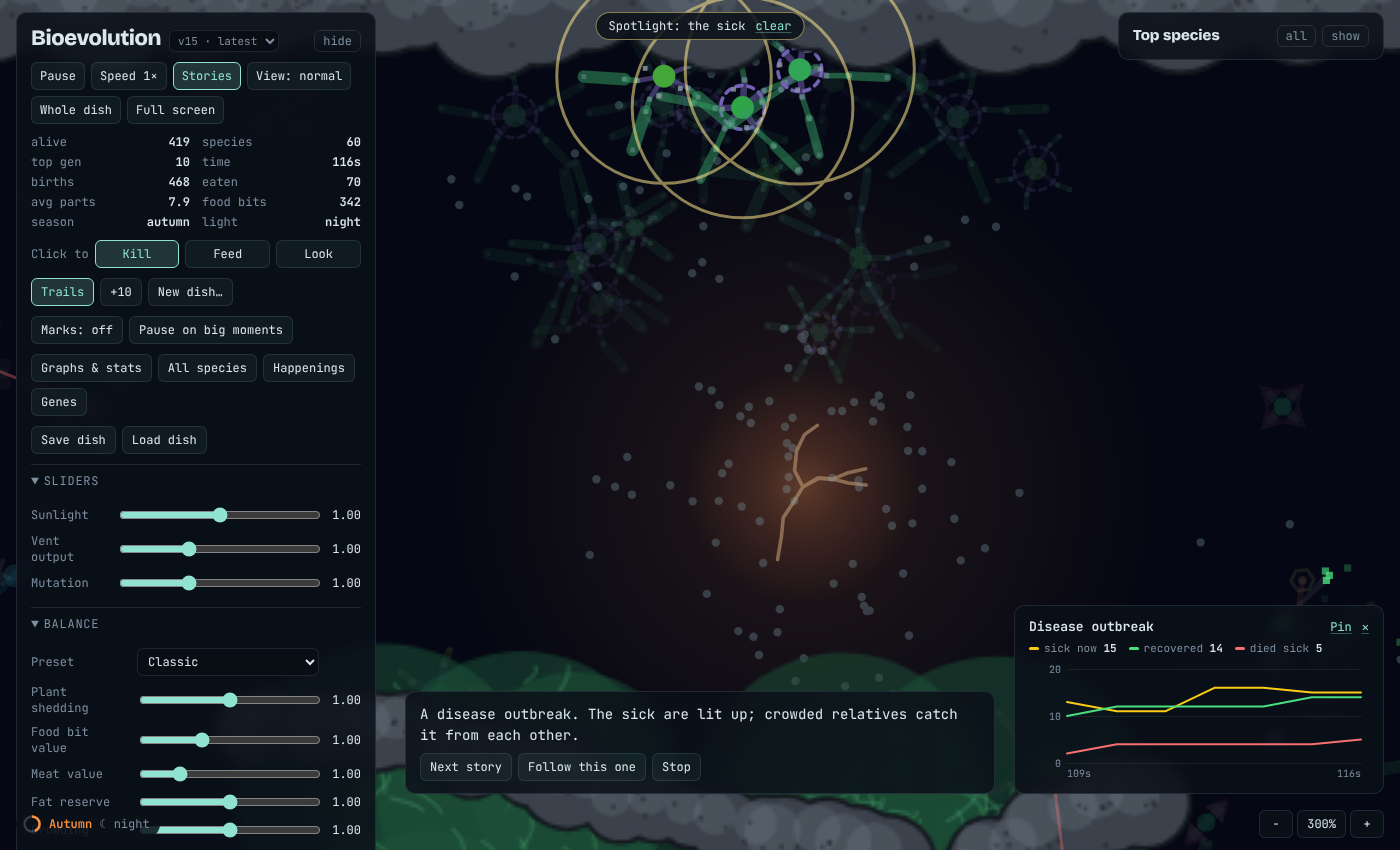
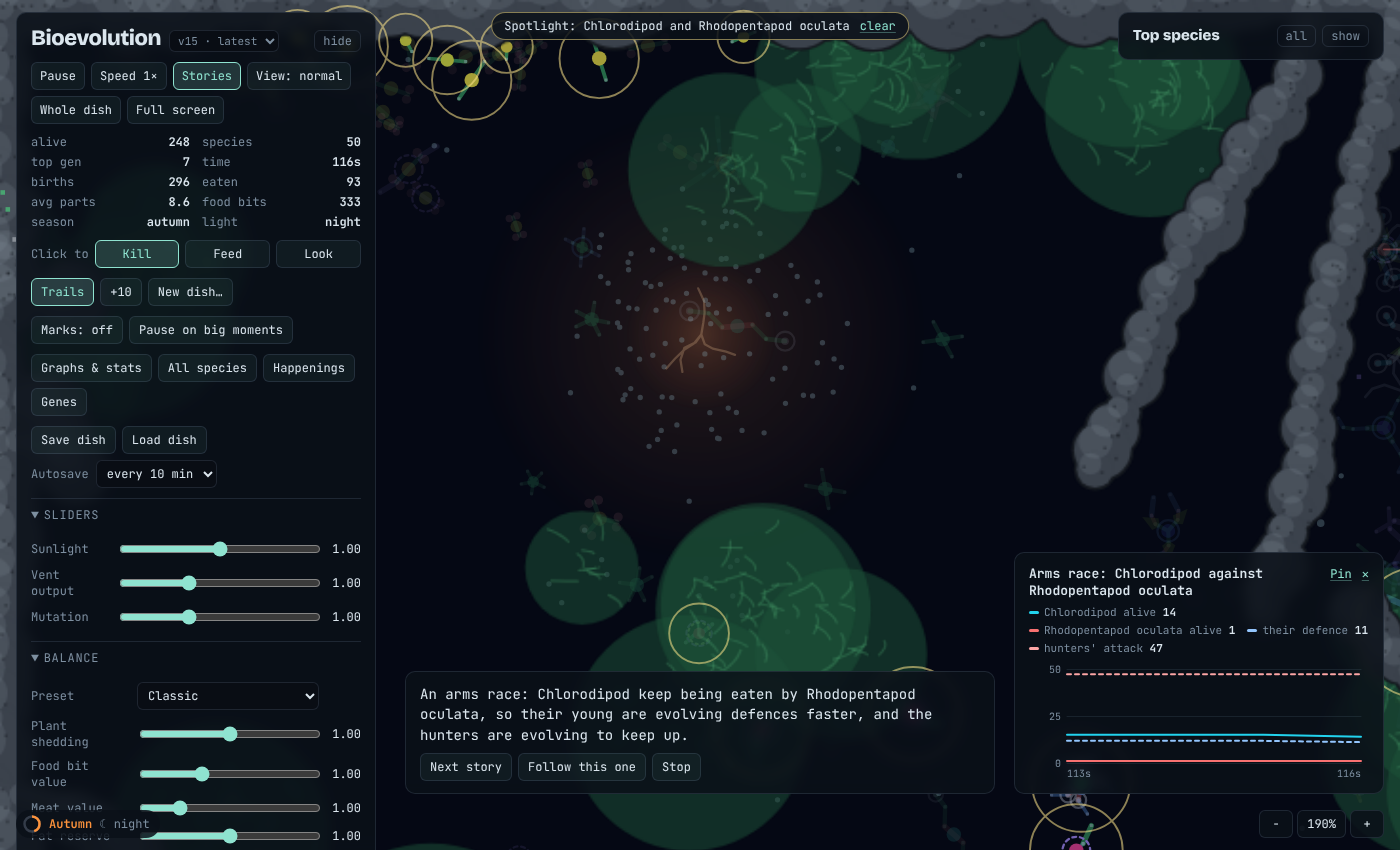
Autosave menu: off, 5, 10, 30 or 60 minutes
Claude-Session: https://claude.ai/code/session_01HyD39EuGwtjVgBknaBB2iA

diff --git a/index.html b/index.html
@@ -369,6 +369,7 @@ select { font: inherit; color: var(--ink); background: var(--panel-solid); borde
     <button class="ctl" id="bSave">Save dish</button>
     <button class="ctl" id="bLoad">Load dish</button>
     <input type="file" id="fLoad" accept=".json,application/json" hidden>
+    <label class="k" for="autoEvery" title="Each autosave pauses the dish for a moment, longer on a dish with a long history">Autosave <select id="autoEvery"><option value="0">off</option><option value="5">every 5 min</option><option value="10" selected>every 10 min</option><option value="30">every 30 min</option><option value="60">every hour</option></select></label>
   </div>
 
   <details class="fold" id="fSliders" open>
@@ -5648,10 +5649,18 @@ function restoreFull(d) {
   if (typeof st.speed === 'number') { speed = st.speed; $('bSpeed').textContent = `Speed ${speed === 0.25 ? '¼' : speed === 0.5 ? '½' : speed}×`; }
 }
 
-// Autosave: every ten minutes and when the page is closed or hidden, the whole dish goes into the
+// Autosave: every ten minutes by default and when the page is closed or hidden, the whole dish goes into the
 // browser's own storage (IndexedDB) on this computer. The last three are kept in case one is bad.
-const AUTO_EVERY = 600000, AUTO_KEEP = 3; // each save pauses the dish briefly, so not too often
-let autoOn = true, autoLast = 0, autoBusy = false;
+// How often is up to you (the Autosave menu, remembered on this computer); off also stops saving on close.
+const AUTO_KEEP = 3;
+let AUTO_EVERY = 600000, autoOn = true, autoLast = 0, autoBusy = false;
+function setAutoEvery(min) {
+  autoOn = min > 0; AUTO_EVERY = Math.max(1, min) * 60000;
+  $('autoEvery').value = String(min);
+  try { localStorage.setItem('bio-autosave', String(min)); } catch (_) { /* storage may be blocked */ }
+}
+try { const v = localStorage.getItem('bio-autosave'); if (v !== null && ['0', '5', '10', '30', '60'].includes(v)) setAutoEvery(+v); } catch (_) { /* ignore */ }
+$('autoEvery').onchange = e => { setAutoEvery(+e.target.value); autoLast = Date.now(); toast(autoOn ? `Autosave every ${e.target.selectedOptions[0].textContent.replace('every ', '')}` : 'Autosave off'); };
 function idb() {
   return new Promise((res, rej) => {
     if (!window.indexedDB) return rej(new Error('no storage'));

diff --git a/src/app.html b/src/app.html
@@ -362,6 +362,7 @@ select { font: inherit; color: var(--ink); background: var(--panel-solid); borde
     <button class="ctl" id="bSave">Save dish</button>
     <button class="ctl" id="bLoad">Load dish</button>
     <input type="file" id="fLoad" accept=".json,application/json" hidden>
+    <label class="k" for="autoEvery" title="Each autosave pauses the dish for a moment, longer on a dish with a long history">Autosave <select id="autoEvery"><option value="0">off</option><option value="5">every 5 min</option><option value="10" selected>every 10 min</option><option value="30">every 30 min</option><option value="60">every hour</option></select></label>
   </div>
 
   <details class="fold" id="fSliders" open>
@@ -5641,10 +5642,18 @@ function restoreFull(d) {
   if (typeof st.speed === 'number') { speed = st.speed; $('bSpeed').textContent = `Speed ${speed === 0.25 ? '¼' : speed === 0.5 ? '½' : speed}×`; }
 }
 
-// Autosave: every ten minutes and when the page is closed or hidden, the whole dish goes into the
+// Autosave: every ten minutes by default and when the page is closed or hidden, the whole dish goes into the
 // browser's own storage (IndexedDB) on this computer. The last three are kept in case one is bad.
-const AUTO_EVERY = 600000, AUTO_KEEP = 3; // each save pauses the dish briefly, so not too often
-let autoOn = true, autoLast = 0, autoBusy = false;
+// How often is up to you (the Autosave menu, remembered on this computer); off also stops saving on close.
+const AUTO_KEEP = 3;
+let AUTO_EVERY = 600000, autoOn = true, autoLast = 0, autoBusy = false;
+function setAutoEvery(min) {
+  autoOn = min > 0; AUTO_EVERY = Math.max(1, min) * 60000;
+  $('autoEvery').value = String(min);
+  try { localStorage.setItem('bio-autosave', String(min)); } catch (_) { /* storage may be blocked */ }
+}
+try { const v = localStorage.getItem('bio-autosave'); if (v !== null && ['0', '5', '10', '30', '60'].includes(v)) setAutoEvery(+v); } catch (_) { /* ignore */ }
+$('autoEvery').onchange = e => { setAutoEvery(+e.target.value); autoLast = Date.now(); toast(autoOn ? `Autosave every ${e.target.selectedOptions[0].textContent.replace('every ', '')}` : 'Autosave off'); };
 function idb() {
   return new Promise((res, rej) => {
     if (!window.indexedDB) return rej(new Error('no storage'));

diff --git a/versions/v15.html b/versions/v15.html
@@ -369,6 +369,7 @@ select { font: inherit; color: var(--ink); background: var(--panel-solid); borde
     <button class="ctl" id="bSave">Save dish</button>
     <button class="ctl" id="bLoad">Load dish</button>
     <input type="file" id="fLoad" accept=".json,application/json" hidden>
+    <label class="k" for="autoEvery" title="Each autosave pauses the dish for a moment, longer on a dish with a long history">Autosave <select id="autoEvery"><option value="0">off</option><option value="5">every 5 min</option><option value="10" selected>every 10 min</option><option value="30">every 30 min</option><option value="60">every hour</option></select></label>
   </div>
 
   <details class="fold" id="fSliders" open>
@@ -5648,10 +5649,18 @@ function restoreFull(d) {
   if (typeof st.speed === 'number') { speed = st.speed; $('bSpeed').textContent = `Speed ${speed === 0.25 ? '¼' : speed === 0.5 ? '½' : speed}×`; }
 }
 
-// Autosave: every ten minutes and when the page is closed or hidden, the whole dish goes into the
+// Autosave: every ten minutes by default and when the page is closed or hidden, the whole dish goes into the
 // browser's own storage (IndexedDB) on this computer. The last three are kept in case one is bad.
-const AUTO_EVERY = 600000, AUTO_KEEP = 3; // each save pauses the dish briefly, so not too often
-let autoOn = true, autoLast = 0, autoBusy = false;
+// How often is up to you (the Autosave menu, remembered on this computer); off also stops saving on close.
+const AUTO_KEEP = 3;
+let AUTO_EVERY = 600000, autoOn = true, autoLast = 0, autoBusy = false;
+function setAutoEvery(min) {
+  autoOn = min > 0; AUTO_EVERY = Math.max(1, min) * 60000;
+  $('autoEvery').value = String(min);
+  try { localStorage.setItem('bio-autosave', String(min)); } catch (_) { /* storage may be blocked */ }
+}
+try { const v = localStorage.getItem('bio-autosave'); if (v !== null && ['0', '5', '10', '30', '60'].includes(v)) setAutoEvery(+v); } catch (_) { /* ignore */ }
+$('autoEvery').onchange = e => { setAutoEvery(+e.target.value); autoLast = Date.now(); toast(autoOn ? `Autosave every ${e.target.selectedOptions[0].textContent.replace('every ', '')}` : 'Autosave off'); };
 function idb() {
   return new Promise((res, rej) => {
     if (!window.indexedDB) return rej(new Error('no storage'));

diff --git a/CHANGELOG.md b/CHANGELOG.md
@@ -11,7 +11,7 @@ Plan: https://claude.ai/artifact/EAUoSTU9FMgjnN5jg2SEGA
 - **Run it on your PC.** The repo works as a website on GitHub Pages, or offline from a downloaded zip (double-click `index.html`). See *Run it* in the README.
 - **Keeps running when hidden.** Browsers stop drawing a minimised or covered window, which used to freeze the dish. Now it keeps stepping in the background (a worker's timer) and only the drawing waits.
 - **Screen stays awake in full screen**, like a screensaver. Leaving full screen lets it sleep again.
-- **Autosave and resume.** Every ten minutes, and when the tab is hidden or closed, the whole dish is saved (gzipped) in the browser's storage on that computer, keeping the last three. Opening the page offers to resume. **Save dish** files now hold the whole running dish too: graphs, species histories and family trees, happenings, food, eggs, parasites on their hosts and zone rules. Older files still load (creatures only).
+- **Autosave and resume.** Every ten minutes (an Autosave menu sets 5, 10, 30 or 60 minutes, or off), and when the tab is hidden or closed, the whole dish is saved (gzipped) in the browser's storage on that computer, keeping the last three. Opening the page offers to resume. **Save dish** files now hold the whole running dish too: graphs, species histories and family trees, happenings, food, eggs, parasites on their hosts and zone rules. Older files still load (creatures only).
 - **Stop following fixed.** The life-story card was rebuilt four times a second, so the "stop following" button was swapped out between press and release and the click was lost. It is now built once.
 - **Look tool** beside Kill and Feed: tap a creature to keep its card open beside it (good on touch screens), with Follow, Species and Close.
 - **Zone rules.** Each quarter of the dish can have its own sun (0-3x), food (0-3x; above 1x, bits also drift in where there's no vent), mutation (0-5x, by where the young are born) and warmth (colder or warmer than the season). Presets: Sunny top, Mutation hotspot, Rich and poor, Frozen corner. All start at normal.

diff --git a/README.md b/README.md
@@ -45,7 +45,7 @@ There is no build step and nothing to install. Tips for leaving it running:
 
 - The dish keeps going when the window is minimised or covered (it just isn't drawn until you come back).
 - **Full screen** also keeps the screen from dimming or going to sleep, like a screensaver. Leave full screen to let it sleep again.
-- The dish **saves itself** every ten minutes and when you close or hide the tab, in your browser's storage on that computer. When you open the page again it offers to **resume** where you left off (graphs, species histories, happenings and all), or to start fresh. The last three autosaves are kept.
+- The dish **saves itself** every ten minutes (change it, or turn it off, with the **Autosave** menu next to Save dish) and when you close or hide the tab, in your browser's storage on that computer. When you open the page again it offers to **resume** where you left off (graphs, species histories, happenings and all), or to start fresh. The last three autosaves are kept.
 
 ### Turning on GitHub Pages (once)
 
